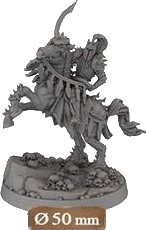
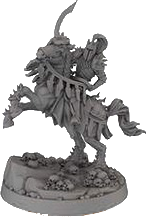
more unit minis

diff --git a/sections/components.tex b/sections/components.tex
@@ -634,10 +634,16 @@ This guide provides a visual overview of all components included in every expans
   \begin{subfigure}[c]{0.9\linewidth}
     \centering
     \begin{tikzpicture}
-      \node at (0.5, 1) {\includegraphics[scale=1.5]{\images/unitmini-dreadknight.png}};
-      \node at (1.7, 0.5) {\includegraphics[scale=1.5]{\images/unitmini-lich.png}};
+      \node at (-3, 1.2) {\includegraphics[scale=1]{\images/unitmini-magicelemental.png}};
+      \node at (-1.3, 1.2) {\includegraphics[scale=1.5]{\images/unitmini-dreadknight.png}};
+      \node at (-2.9, 0.2) {\includegraphics[scale=0.75]{\images/unitmini-seadog.png}};
+      \node at (-1.5, 0) {\includegraphics[scale=1.5]{\images/unitmini-dwarf.png}};
+      \node at (2, 1) {\includegraphics[scale=0.75]{\images/unitmini-archdevil.png}};
+      \node at (-0.1, 0.8) {\includegraphics[scale=1.5]{\images/unitmini-lich.png}};
+      \node at (1, 0.8) {\includegraphics[scale=1]{\images/unitmini-cyclops.png}};
       \node at (3, -0.1) {\includegraphics[scale=1.5]{\images/unitmini-zealot.png}};
-      \node at (4, 1) {\includegraphics[scale=1.5]{\images/unitmini-archangel.png}};
+      \node at (3.9, 1) {\includegraphics[scale=1.5]{\images/unitmini-archangel.png}};
+      \node at (5.9, 1.4) {\includegraphics[scale=1.5]{\images/unitmini-lizardman.png}};
       \node at (6.8, 1) {\includegraphics[scale=1.5]{\images/unitmini-troglodyte.png}};
       \node at (5.3, 0) {\includegraphics[scale=1.5]{\images/unitmini-evileye.png}};
     \end{tikzpicture}
